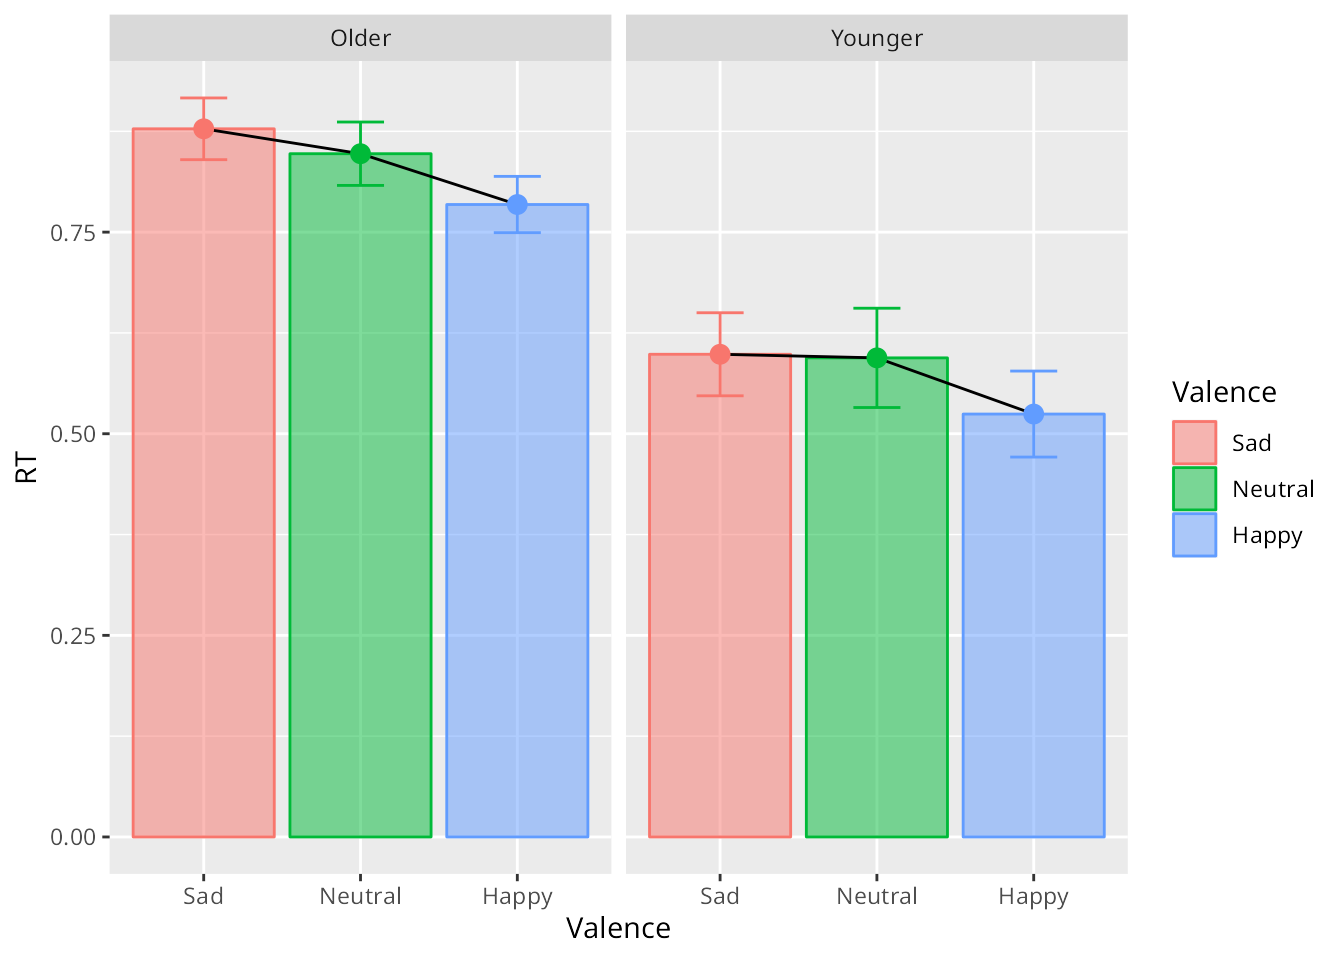
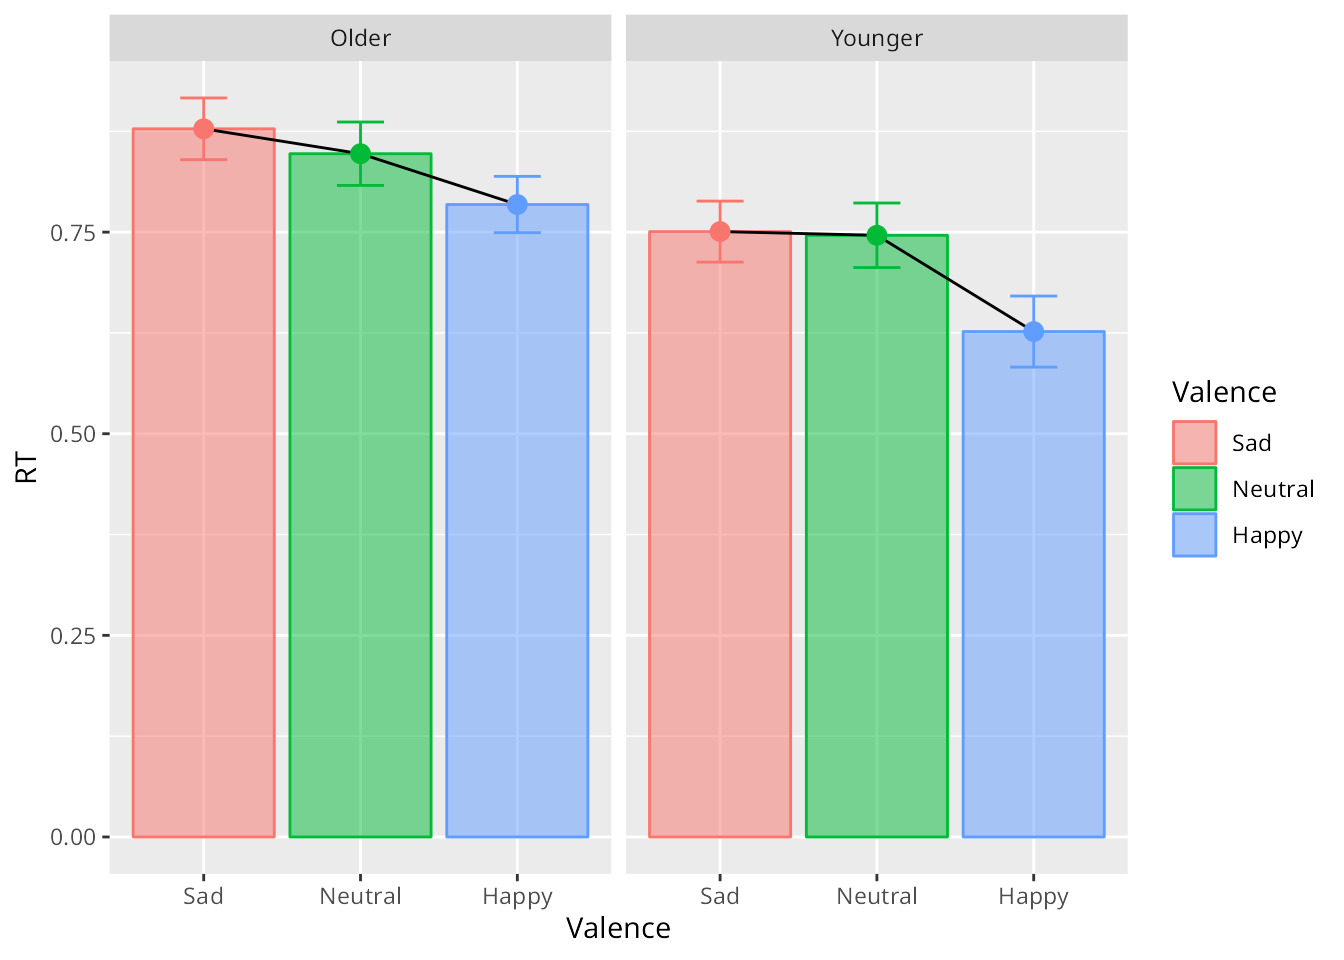
extend basic plotting vignette

Changed region(s): [[0.4688, 0.1875, 0.8438, 0.5]]

diff --git a/docs/articles/basic-plotting.html b/docs/articles/basic-plotting.html
@@ -94,7 +94,9 @@
 <span><span class="co">#&gt;     filter, lag</span></span>
 <span><span class="co">#&gt; The following objects are masked from 'package:base':</span></span>
 <span><span class="co">#&gt; </span></span>
-<span><span class="co">#&gt;     intersect, setdiff, setequal, union</span></span></code></pre></div>
+<span><span class="co">#&gt;     intersect, setdiff, setequal, union</span></span>
+<span><span class="kw"><a href="https://rdrr.io/r/base/library.html" class="external-link">library</a></span><span class="op">(</span><span class="va"><a href="https://github.com/crsh/papaja" class="external-link">papaja</a></span><span class="op">)</span></span>
+<span><span class="co">#&gt; Loading required package: tinylabels</span></span></code></pre></div>
 <p>Examine data</p>
 <div class="sourceCode" id="cb2"><pre class="downlit sourceCode r">
 <code class="sourceCode R"><span><span class="va">data_ala</span></span>
@@ -146,7 +148,7 @@ Younger vs Older</p>
 <p>Let’s imagine that younger people were quicker to respond.</p>
 <div class="sourceCode" id="cb7"><pre class="downlit sourceCode r">
 <code class="sourceCode R"><span><span class="va">data_ala_age</span> <span class="op">&lt;-</span> <span class="va">data_ala_age</span> <span class="op"><a href="https://magrittr.tidyverse.org/reference/pipe.html" class="external-link">%&gt;%</a></span> </span>
-<span>  <span class="fu"><a href="https://dplyr.tidyverse.org/reference/mutate.html" class="external-link">mutate</a></span><span class="op">(</span>RT.adjustment<span class="op">=</span><span class="fu"><a href="https://rdrr.io/r/stats/Uniform.html" class="external-link">runif</a></span><span class="op">(</span>n<span class="op">=</span><span class="fu"><a href="https://rdrr.io/r/base/nrow.html" class="external-link">nrow</a></span><span class="op">(</span><span class="va">data_ala_age</span><span class="op">)</span>, min<span class="op">=</span><span class="fl">0</span>, max<span class="op">=</span><span class="fl">0.5</span><span class="op">)</span><span class="op">)</span> <span class="op"><a href="https://magrittr.tidyverse.org/reference/pipe.html" class="external-link">%&gt;%</a></span> </span>
+<span>  <span class="fu"><a href="https://dplyr.tidyverse.org/reference/mutate.html" class="external-link">mutate</a></span><span class="op">(</span>RT.adjustment<span class="op">=</span><span class="fu"><a href="https://rdrr.io/r/stats/Uniform.html" class="external-link">runif</a></span><span class="op">(</span>n<span class="op">=</span><span class="fu"><a href="https://rdrr.io/r/base/nrow.html" class="external-link">nrow</a></span><span class="op">(</span><span class="va">data_ala_age</span><span class="op">)</span>, min<span class="op">=</span><span class="fl">0</span>, max<span class="op">=</span><span class="fl">0.25</span><span class="op">)</span><span class="op">)</span> <span class="op"><a href="https://magrittr.tidyverse.org/reference/pipe.html" class="external-link">%&gt;%</a></span> </span>
 <span>  <span class="fu"><a href="https://dplyr.tidyverse.org/reference/mutate.html" class="external-link">mutate</a></span><span class="op">(</span>RT<span class="op">=</span><span class="fu"><a href="https://rdrr.io/r/base/ifelse.html" class="external-link">ifelse</a></span><span class="op">(</span><span class="va">Age</span><span class="op">==</span><span class="st">"Younger"</span>, <span class="va">RT</span><span class="op">-</span><span class="va">RT.adjustment</span>, <span class="va">RT</span><span class="op">)</span><span class="op">)</span></span></code></pre></div>
 <p>Let’s separate out the two groups of Age</p>
 <div class="sourceCode" id="cb8"><pre class="downlit sourceCode r">
@@ -158,6 +160,75 @@ Younger vs Older</p>
 <span>  <span class="fu"><a href="https://ggplot2.tidyverse.org/reference/stat_summary.html" class="external-link">stat_summary</a></span><span class="op">(</span>geom<span class="op">=</span><span class="st">'point'</span>, fun<span class="op">=</span><span class="st">"mean"</span>, size<span class="op">=</span><span class="fl">3</span>, show.legend <span class="op">=</span> <span class="cn">F</span><span class="op">)</span><span class="op">+</span></span>
 <span>  <span class="fu"><a href="https://ggplot2.tidyverse.org/reference/facet_grid.html" class="external-link">facet_grid</a></span><span class="op">(</span><span class="op">~</span><span class="va">Age</span><span class="op">)</span></span></code></pre></div>
 <p><img src="basic-plotting_files/figure-html/unnamed-chunk-8-1.png" width="672"></p>
+<p>Let’s change the theme. This one is <code><a href="https://rdrr.io/pkg/papaja/man/theme_apa.html" class="external-link">theme_apa()</a></code> which is
+supposed to be APA-compliant. It comes from a package called
+<code>papaja</code></p>
+<div class="sourceCode" id="cb9"><pre class="downlit sourceCode r">
+<code class="sourceCode R"><span><span class="fu"><a href="https://ggplot2.tidyverse.org/reference/ggplot.html" class="external-link">ggplot</a></span><span class="op">(</span><span class="va">data_ala_age</span>, <span class="fu"><a href="https://ggplot2.tidyverse.org/reference/aes.html" class="external-link">aes</a></span><span class="op">(</span>y<span class="op">=</span><span class="va">RT</span>, x<span class="op">=</span><span class="va">Valence</span>, colour<span class="op">=</span><span class="va">Valence</span>, fill<span class="op">=</span><span class="va">Valence</span><span class="op">)</span><span class="op">)</span><span class="op">+</span></span>
+<span>  <span class="fu"><a href="https://ggplot2.tidyverse.org/reference/stat_summary.html" class="external-link">stat_summary</a></span><span class="op">(</span>geom<span class="op">=</span><span class="st">"bar"</span>, fun<span class="op">=</span><span class="st">"mean"</span>, alpha<span class="op">=</span><span class="fl">0.5</span><span class="op">)</span><span class="op">+</span></span>
+<span>  <span class="fu"><a href="https://ggplot2.tidyverse.org/reference/stat_summary.html" class="external-link">stat_summary</a></span><span class="op">(</span>geom<span class="op">=</span><span class="st">"line"</span>, fun<span class="op">=</span><span class="st">"mean"</span>, <span class="fu"><a href="https://ggplot2.tidyverse.org/reference/aes.html" class="external-link">aes</a></span><span class="op">(</span>group<span class="op">=</span><span class="fl">1</span><span class="op">)</span>, colour<span class="op">=</span><span class="st">"black"</span><span class="op">)</span><span class="op">+</span></span>
+<span>  <span class="fu"><a href="https://ggplot2.tidyverse.org/reference/stat_summary.html" class="external-link">stat_summary</a></span><span class="op">(</span>geom<span class="op">=</span><span class="st">'errorbar'</span>, width<span class="op">=</span><span class="fl">0.3</span>, fun.data <span class="op">=</span> <span class="va">mean_cl_normal</span>, </span>
+<span>               fun.args<span class="op">=</span><span class="fu"><a href="https://rdrr.io/r/base/list.html" class="external-link">list</a></span><span class="op">(</span>conf.int<span class="op">=</span><span class="fl">.95</span><span class="op">)</span>, show.legend <span class="op">=</span> <span class="cn">F</span><span class="op">)</span><span class="op">+</span></span>
+<span>  <span class="fu"><a href="https://ggplot2.tidyverse.org/reference/stat_summary.html" class="external-link">stat_summary</a></span><span class="op">(</span>geom<span class="op">=</span><span class="st">'point'</span>, fun<span class="op">=</span><span class="st">"mean"</span>, size<span class="op">=</span><span class="fl">3</span>, show.legend <span class="op">=</span> <span class="cn">F</span><span class="op">)</span><span class="op">+</span></span>
+<span>  <span class="fu"><a href="https://ggplot2.tidyverse.org/reference/facet_grid.html" class="external-link">facet_grid</a></span><span class="op">(</span><span class="op">~</span><span class="va">Age</span><span class="op">)</span><span class="op">+</span></span>
+<span>  <span class="fu"><a href="https://rdrr.io/pkg/papaja/man/theme_apa.html" class="external-link">theme_apa</a></span><span class="op">(</span><span class="op">)</span></span></code></pre></div>
+<p><img src="basic-plotting_files/figure-html/unnamed-chunk-9-1.png" width="672"></p>
+<p>Let’s add raw data points - see how this is overkill?</p>
+<div class="sourceCode" id="cb10"><pre class="downlit sourceCode r">
+<code class="sourceCode R"><span><span class="fu"><a href="https://ggplot2.tidyverse.org/reference/ggplot.html" class="external-link">ggplot</a></span><span class="op">(</span><span class="va">data_ala_age</span>, <span class="fu"><a href="https://ggplot2.tidyverse.org/reference/aes.html" class="external-link">aes</a></span><span class="op">(</span>y<span class="op">=</span><span class="va">RT</span>, x<span class="op">=</span><span class="va">Valence</span>, fill<span class="op">=</span><span class="va">Valence</span><span class="op">)</span><span class="op">)</span><span class="op">+</span></span>
+<span>  <span class="fu"><a href="https://ggplot2.tidyverse.org/reference/geom_jitter.html" class="external-link">geom_jitter</a></span><span class="op">(</span>width<span class="op">=</span><span class="fl">0.2</span>, height<span class="op">=</span><span class="fl">0</span>, show.legend <span class="op">=</span> <span class="cn">F</span>, <span class="fu"><a href="https://ggplot2.tidyverse.org/reference/aes.html" class="external-link">aes</a></span><span class="op">(</span>color<span class="op">=</span><span class="va">Valence</span>, fill<span class="op">=</span><span class="va">Valence</span><span class="op">)</span><span class="op">)</span><span class="op">+</span></span>
+<span>  <span class="fu"><a href="https://ggplot2.tidyverse.org/reference/stat_summary.html" class="external-link">stat_summary</a></span><span class="op">(</span>geom<span class="op">=</span><span class="st">"bar"</span>, fun<span class="op">=</span><span class="st">"mean"</span>, alpha<span class="op">=</span><span class="fl">0.5</span><span class="op">)</span><span class="op">+</span></span>
+<span>  <span class="fu"><a href="https://ggplot2.tidyverse.org/reference/stat_summary.html" class="external-link">stat_summary</a></span><span class="op">(</span>geom<span class="op">=</span><span class="st">"line"</span>, fun<span class="op">=</span><span class="st">"mean"</span>, <span class="fu"><a href="https://ggplot2.tidyverse.org/reference/aes.html" class="external-link">aes</a></span><span class="op">(</span>group<span class="op">=</span><span class="fl">1</span><span class="op">)</span>, colour<span class="op">=</span><span class="st">"black"</span><span class="op">)</span><span class="op">+</span></span>
+<span>  <span class="fu"><a href="https://ggplot2.tidyverse.org/reference/stat_summary.html" class="external-link">stat_summary</a></span><span class="op">(</span>geom<span class="op">=</span><span class="st">'errorbar'</span>, width<span class="op">=</span><span class="fl">0.3</span>, fun.data <span class="op">=</span> <span class="va">mean_cl_normal</span>, </span>
+<span>               fun.args<span class="op">=</span><span class="fu"><a href="https://rdrr.io/r/base/list.html" class="external-link">list</a></span><span class="op">(</span>conf.int<span class="op">=</span><span class="fl">.95</span><span class="op">)</span>, show.legend <span class="op">=</span> <span class="cn">F</span><span class="op">)</span><span class="op">+</span></span>
+<span>  <span class="fu"><a href="https://ggplot2.tidyverse.org/reference/stat_summary.html" class="external-link">stat_summary</a></span><span class="op">(</span>geom<span class="op">=</span><span class="st">'point'</span>, fun<span class="op">=</span><span class="st">"mean"</span>, size<span class="op">=</span><span class="fl">3</span>, show.legend <span class="op">=</span> <span class="cn">F</span><span class="op">)</span><span class="op">+</span></span>
+<span>  <span class="fu"><a href="https://ggplot2.tidyverse.org/reference/facet_grid.html" class="external-link">facet_grid</a></span><span class="op">(</span><span class="op">~</span><span class="va">Age</span><span class="op">)</span><span class="op">+</span></span>
+<span>  <span class="fu"><a href="https://rdrr.io/pkg/papaja/man/theme_apa.html" class="external-link">theme_apa</a></span><span class="op">(</span><span class="op">)</span></span></code></pre></div>
+<p><img src="basic-plotting_files/figure-html/unnamed-chunk-10-1.png" width="672"></p>
+<p>There are better ways to represent the distribution of raw data
+points together with summary statistics.</p>
+<div class="sourceCode" id="cb11"><pre class="downlit sourceCode r">
+<code class="sourceCode R"><span><span class="fu"><a href="https://ggplot2.tidyverse.org/reference/ggplot.html" class="external-link">ggplot</a></span><span class="op">(</span><span class="va">data_ala_age</span>, <span class="fu"><a href="https://ggplot2.tidyverse.org/reference/aes.html" class="external-link">aes</a></span><span class="op">(</span>y<span class="op">=</span><span class="va">RT</span>, x<span class="op">=</span><span class="va">Valence</span>, fill<span class="op">=</span><span class="va">Valence</span><span class="op">)</span><span class="op">)</span><span class="op">+</span></span>
+<span>  <span class="fu"><a href="https://ggplot2.tidyverse.org/reference/geom_violin.html" class="external-link">geom_violin</a></span><span class="op">(</span>alpha<span class="op">=</span><span class="fl">0.5</span><span class="op">)</span><span class="op">+</span></span>
+<span>  <span class="fu"><a href="https://ggplot2.tidyverse.org/reference/geom_boxplot.html" class="external-link">geom_boxplot</a></span><span class="op">(</span>width<span class="op">=</span><span class="fl">0.25</span>, fatten<span class="op">=</span><span class="fl">0</span>, show.legend <span class="op">=</span> <span class="cn">F</span><span class="op">)</span><span class="op">+</span></span>
+<span>  <span class="co">#geom_dotplot(binaxis='y', binwidth=.025, stackdir='center', fill = "grey", dotsize=0.5, position=position_dodge(0.75)) +</span></span>
+<span>  <span class="fu"><a href="https://ggplot2.tidyverse.org/reference/geom_jitter.html" class="external-link">geom_jitter</a></span><span class="op">(</span>width<span class="op">=</span><span class="fl">0.05</span>, height<span class="op">=</span><span class="fl">0</span>, alpha<span class="op">=</span><span class="fl">0.2</span>, show.legend <span class="op">=</span> <span class="cn">F</span><span class="op">)</span><span class="op">+</span></span>
+<span>  <span class="co">#theme_classic()+</span></span>
+<span>  <span class="fu"><a href="https://rdrr.io/pkg/papaja/man/theme_apa.html" class="external-link">theme_apa</a></span><span class="op">(</span><span class="op">)</span></span></code></pre></div>
+<p><img src="basic-plotting_files/figure-html/unnamed-chunk-11-1.png" width="700"></p>
+<p>Papaja has some APA-related plot styles which look nice, but the
+syntax is different.</p>
+<div class="sourceCode" id="cb12"><pre class="downlit sourceCode r">
+<code class="sourceCode R"><span><span class="fu"><a href="https://rdrr.io/pkg/papaja/man/apa_beeplot.html" class="external-link">apa_beeplot</a></span><span class="op">(</span></span>
+<span>  data <span class="op">=</span> <span class="va">data_ala_age</span></span>
+<span>  , id <span class="op">=</span> <span class="st">"Participant"</span></span>
+<span>  , dv <span class="op">=</span> <span class="st">"RT"</span></span>
+<span>  , factors <span class="op">=</span> <span class="fu"><a href="https://rdrr.io/r/base/c.html" class="external-link">c</a></span><span class="op">(</span><span class="st">"Age"</span>, <span class="st">"Valence"</span><span class="op">)</span></span>
+<span>  , args_points <span class="op">=</span> <span class="fu"><a href="https://rdrr.io/r/base/list.html" class="external-link">list</a></span><span class="op">(</span>cex <span class="op">=</span> <span class="fl">2</span>, bg <span class="op">=</span> <span class="fu"><a href="https://rdrr.io/r/base/c.html" class="external-link">c</a></span><span class="op">(</span><span class="st">"skyblue4"</span>, <span class="st">"indianred3"</span>, <span class="st">"seagreen4"</span><span class="op">)</span>, col <span class="op">=</span> <span class="st">"white"</span><span class="op">)</span></span>
+<span>  , args_swarm <span class="op">=</span> <span class="fu"><a href="https://rdrr.io/r/base/list.html" class="external-link">list</a></span><span class="op">(</span>cex <span class="op">=</span> <span class="fl">1.2</span><span class="op">)</span></span>
+<span>  , args_error_bars <span class="op">=</span> <span class="fu"><a href="https://rdrr.io/r/base/list.html" class="external-link">list</a></span><span class="op">(</span>length <span class="op">=</span> <span class="fl">0.02</span>, col <span class="op">=</span> <span class="st">"grey20"</span><span class="op">)</span></span>
+<span><span class="op">)</span></span></code></pre></div>
+<p><img src="basic-plotting_files/figure-html/unnamed-chunk-12-1.png" width="672"></p>
+<div class="sourceCode" id="cb13"><pre class="downlit sourceCode r">
+<code class="sourceCode R"><span></span>
+<span><span class="fu"><a href="https://rdrr.io/pkg/papaja/man/apa_lineplot.html" class="external-link">apa_lineplot</a></span><span class="op">(</span></span>
+<span>  data <span class="op">=</span> <span class="va">data_ala_age</span></span>
+<span>  , id <span class="op">=</span> <span class="st">"Participant"</span></span>
+<span>  , dv <span class="op">=</span> <span class="st">"RT"</span></span>
+<span>  , factors <span class="op">=</span> <span class="fu"><a href="https://rdrr.io/r/base/c.html" class="external-link">c</a></span><span class="op">(</span><span class="st">"Age"</span>, <span class="st">"Valence"</span><span class="op">)</span></span>
+<span>  , args_points <span class="op">=</span> <span class="fu"><a href="https://rdrr.io/r/base/list.html" class="external-link">list</a></span><span class="op">(</span>cex <span class="op">=</span> <span class="fl">2</span>, bg <span class="op">=</span> <span class="fu"><a href="https://rdrr.io/r/base/c.html" class="external-link">c</a></span><span class="op">(</span><span class="st">"skyblue4"</span>, <span class="st">"indianred3"</span>, <span class="st">"seagreen4"</span><span class="op">)</span>, col <span class="op">=</span> <span class="st">"white"</span><span class="op">)</span></span>
+<span>  , args_error_bars <span class="op">=</span> <span class="fu"><a href="https://rdrr.io/r/base/list.html" class="external-link">list</a></span><span class="op">(</span>length <span class="op">=</span> <span class="fl">0.02</span>, col <span class="op">=</span> <span class="st">"grey20"</span><span class="op">)</span></span>
+<span><span class="op">)</span></span></code></pre></div>
+<p><img src="basic-plotting_files/figure-html/unnamed-chunk-12-2.png" width="672"></p>
+<div class="sourceCode" id="cb14"><pre class="downlit sourceCode r">
+<code class="sourceCode R"><span></span>
+<span><span class="fu"><a href="https://rdrr.io/pkg/papaja/man/apa_barplot.html" class="external-link">apa_barplot</a></span><span class="op">(</span></span>
+<span>  data <span class="op">=</span> <span class="va">data_ala_age</span></span>
+<span>  , id <span class="op">=</span> <span class="st">"Participant"</span></span>
+<span>  , dv <span class="op">=</span> <span class="st">"RT"</span></span>
+<span>  , factors <span class="op">=</span> <span class="fu"><a href="https://rdrr.io/r/base/c.html" class="external-link">c</a></span><span class="op">(</span><span class="st">"Age"</span>, <span class="st">"Valence"</span><span class="op">)</span></span>
+<span><span class="op">)</span></span></code></pre></div>
+<p><img src="basic-plotting_files/figure-html/unnamed-chunk-12-3.png" width="672"></p>
 <div class="section level2">
 <h2 id="excercises">Excercises<a class="anchor" aria-label="anchor" href="#excercises"></a>
 </h2>
